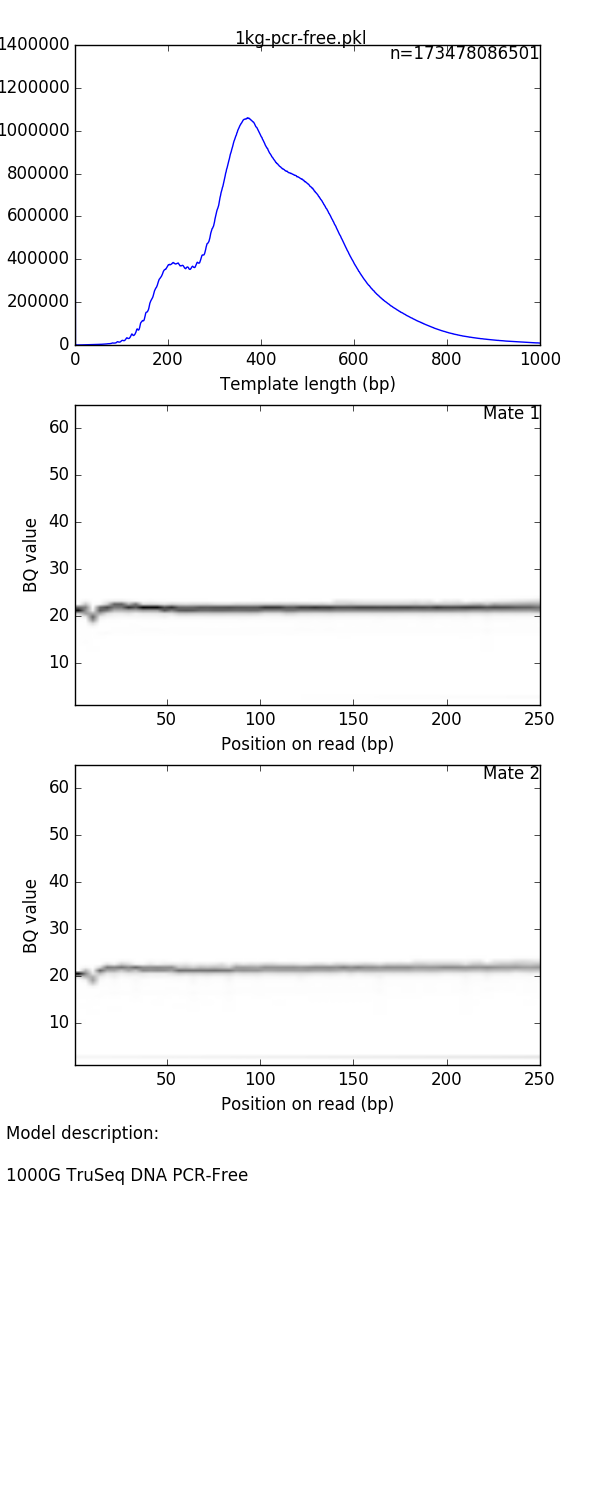
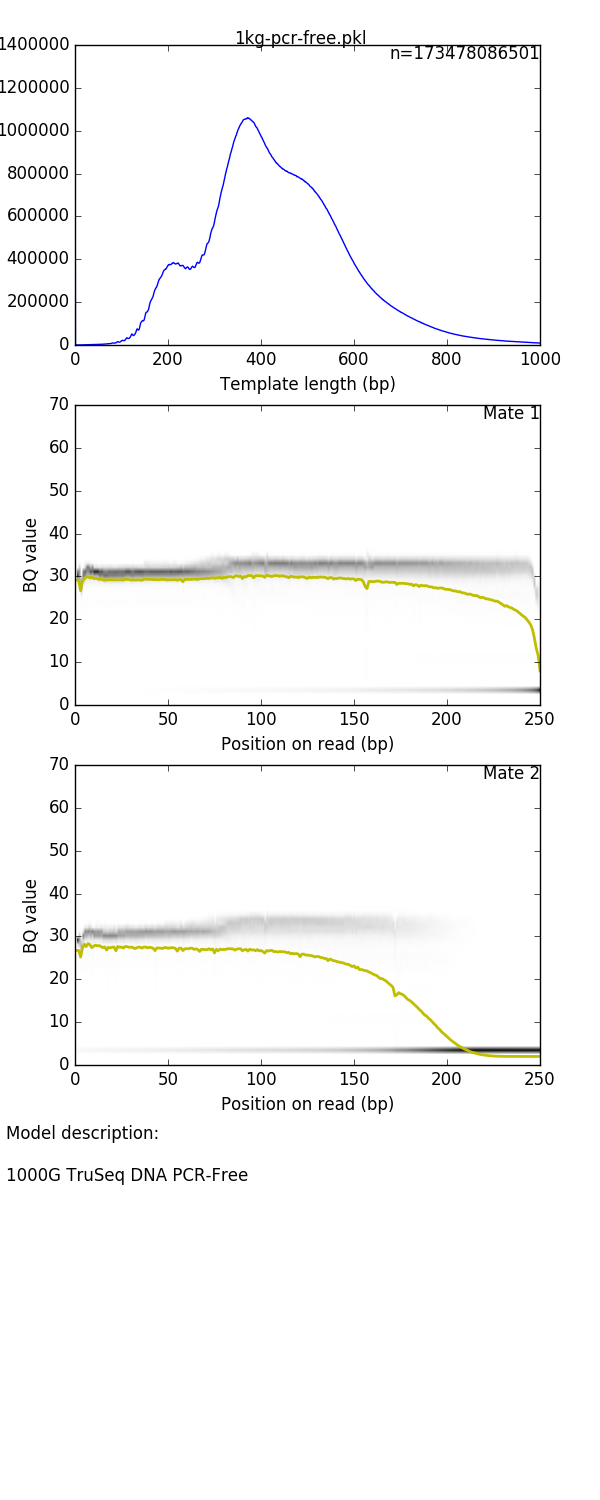
Bugfix: now properly plotting BQ matrix
The model description plots of the built-in models have also been updated.

diff --git a/mitty/simulation/illumina.py b/mitty/simulation/illumina.py
@@ -200,10 +200,14 @@ def plot_template_length_distribution(model, ax, plt):
 
 
 def plot_BQ_heatmap(model, mate, ax, plt):
-  plt.imshow(model['bq_mat'][mate, :65, :model['max_rlen']].T,
+  this_bq_mat = model['bq_mat'][mate, :model['max_rlen'], :65]
+  plt.imshow(this_bq_mat.T,
              extent=(1, model['max_rlen'], 1, 65),
              aspect='auto',
              origin='lower', cmap=plt.cm.gray_r)
+  B = np.arange(65)
+  bq_mean = np.dot(this_bq_mat, np.arange(65)) / this_bq_mat.sum(axis=1)
+  plt.plot(range(1, model['max_rlen'] + 1), bq_mean, 'y', lw=2)
   ax.text(plt.getp(ax, 'xlim')[1], plt.getp(ax, 'ylim')[1], 'Mate {}'.format(mate + 1),
           ha='right', va='top')
   plt.setp(ax, xlabel='Position on read (bp)', ylabel='BQ value')
